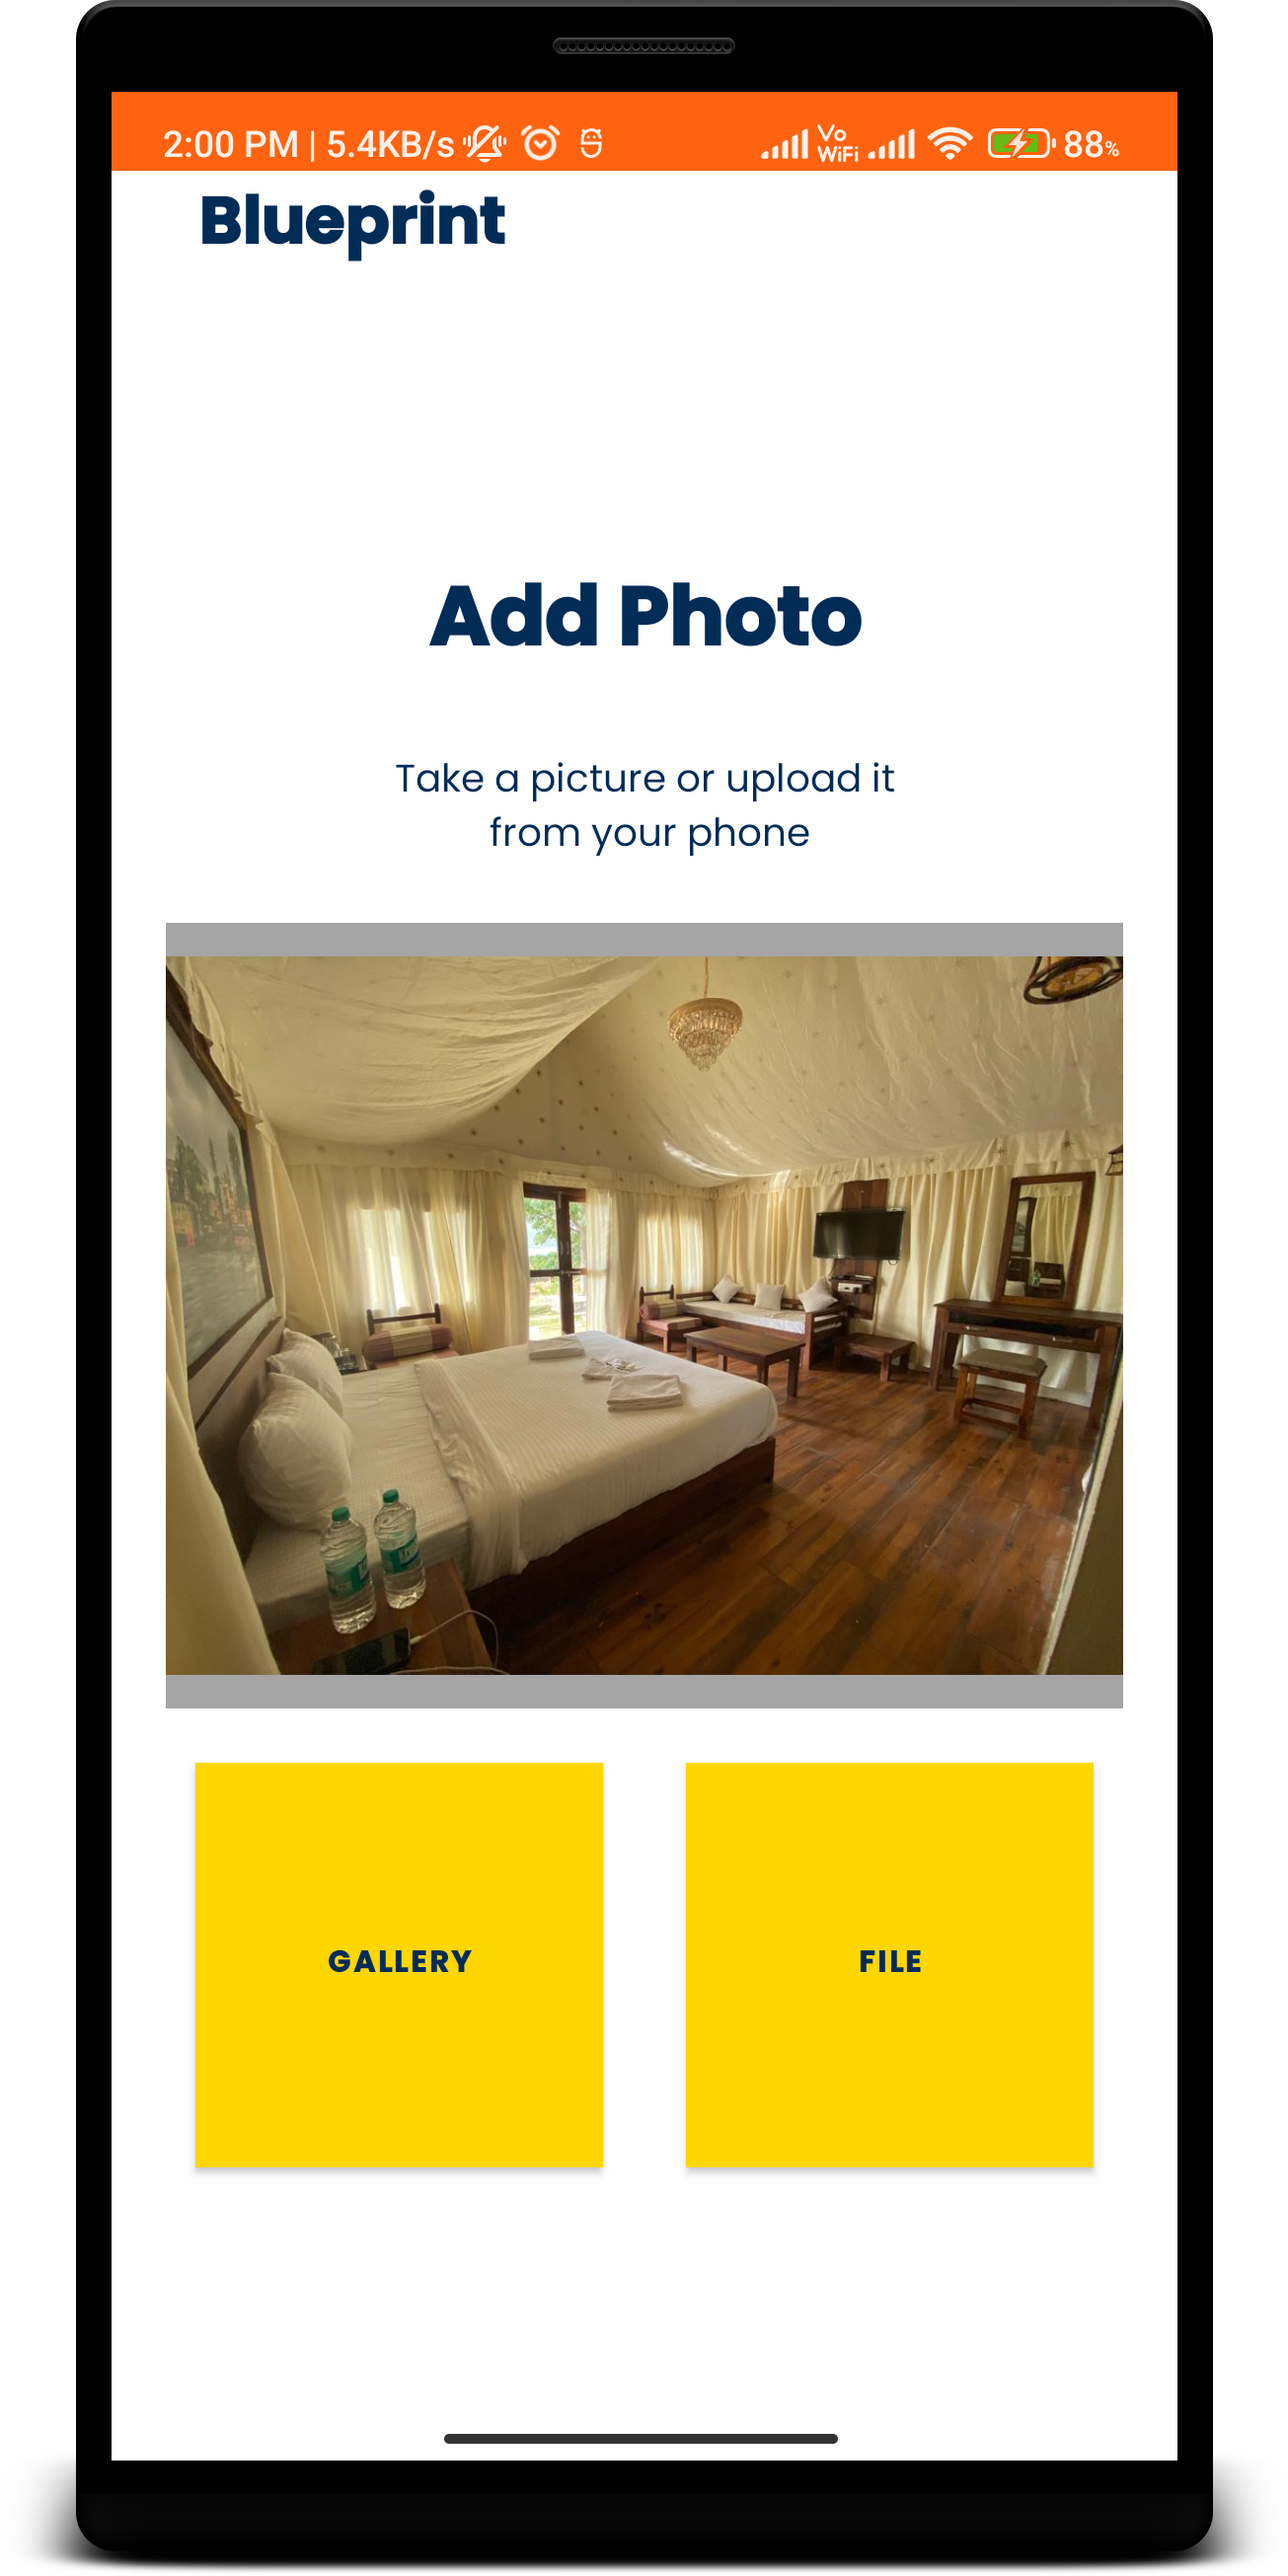
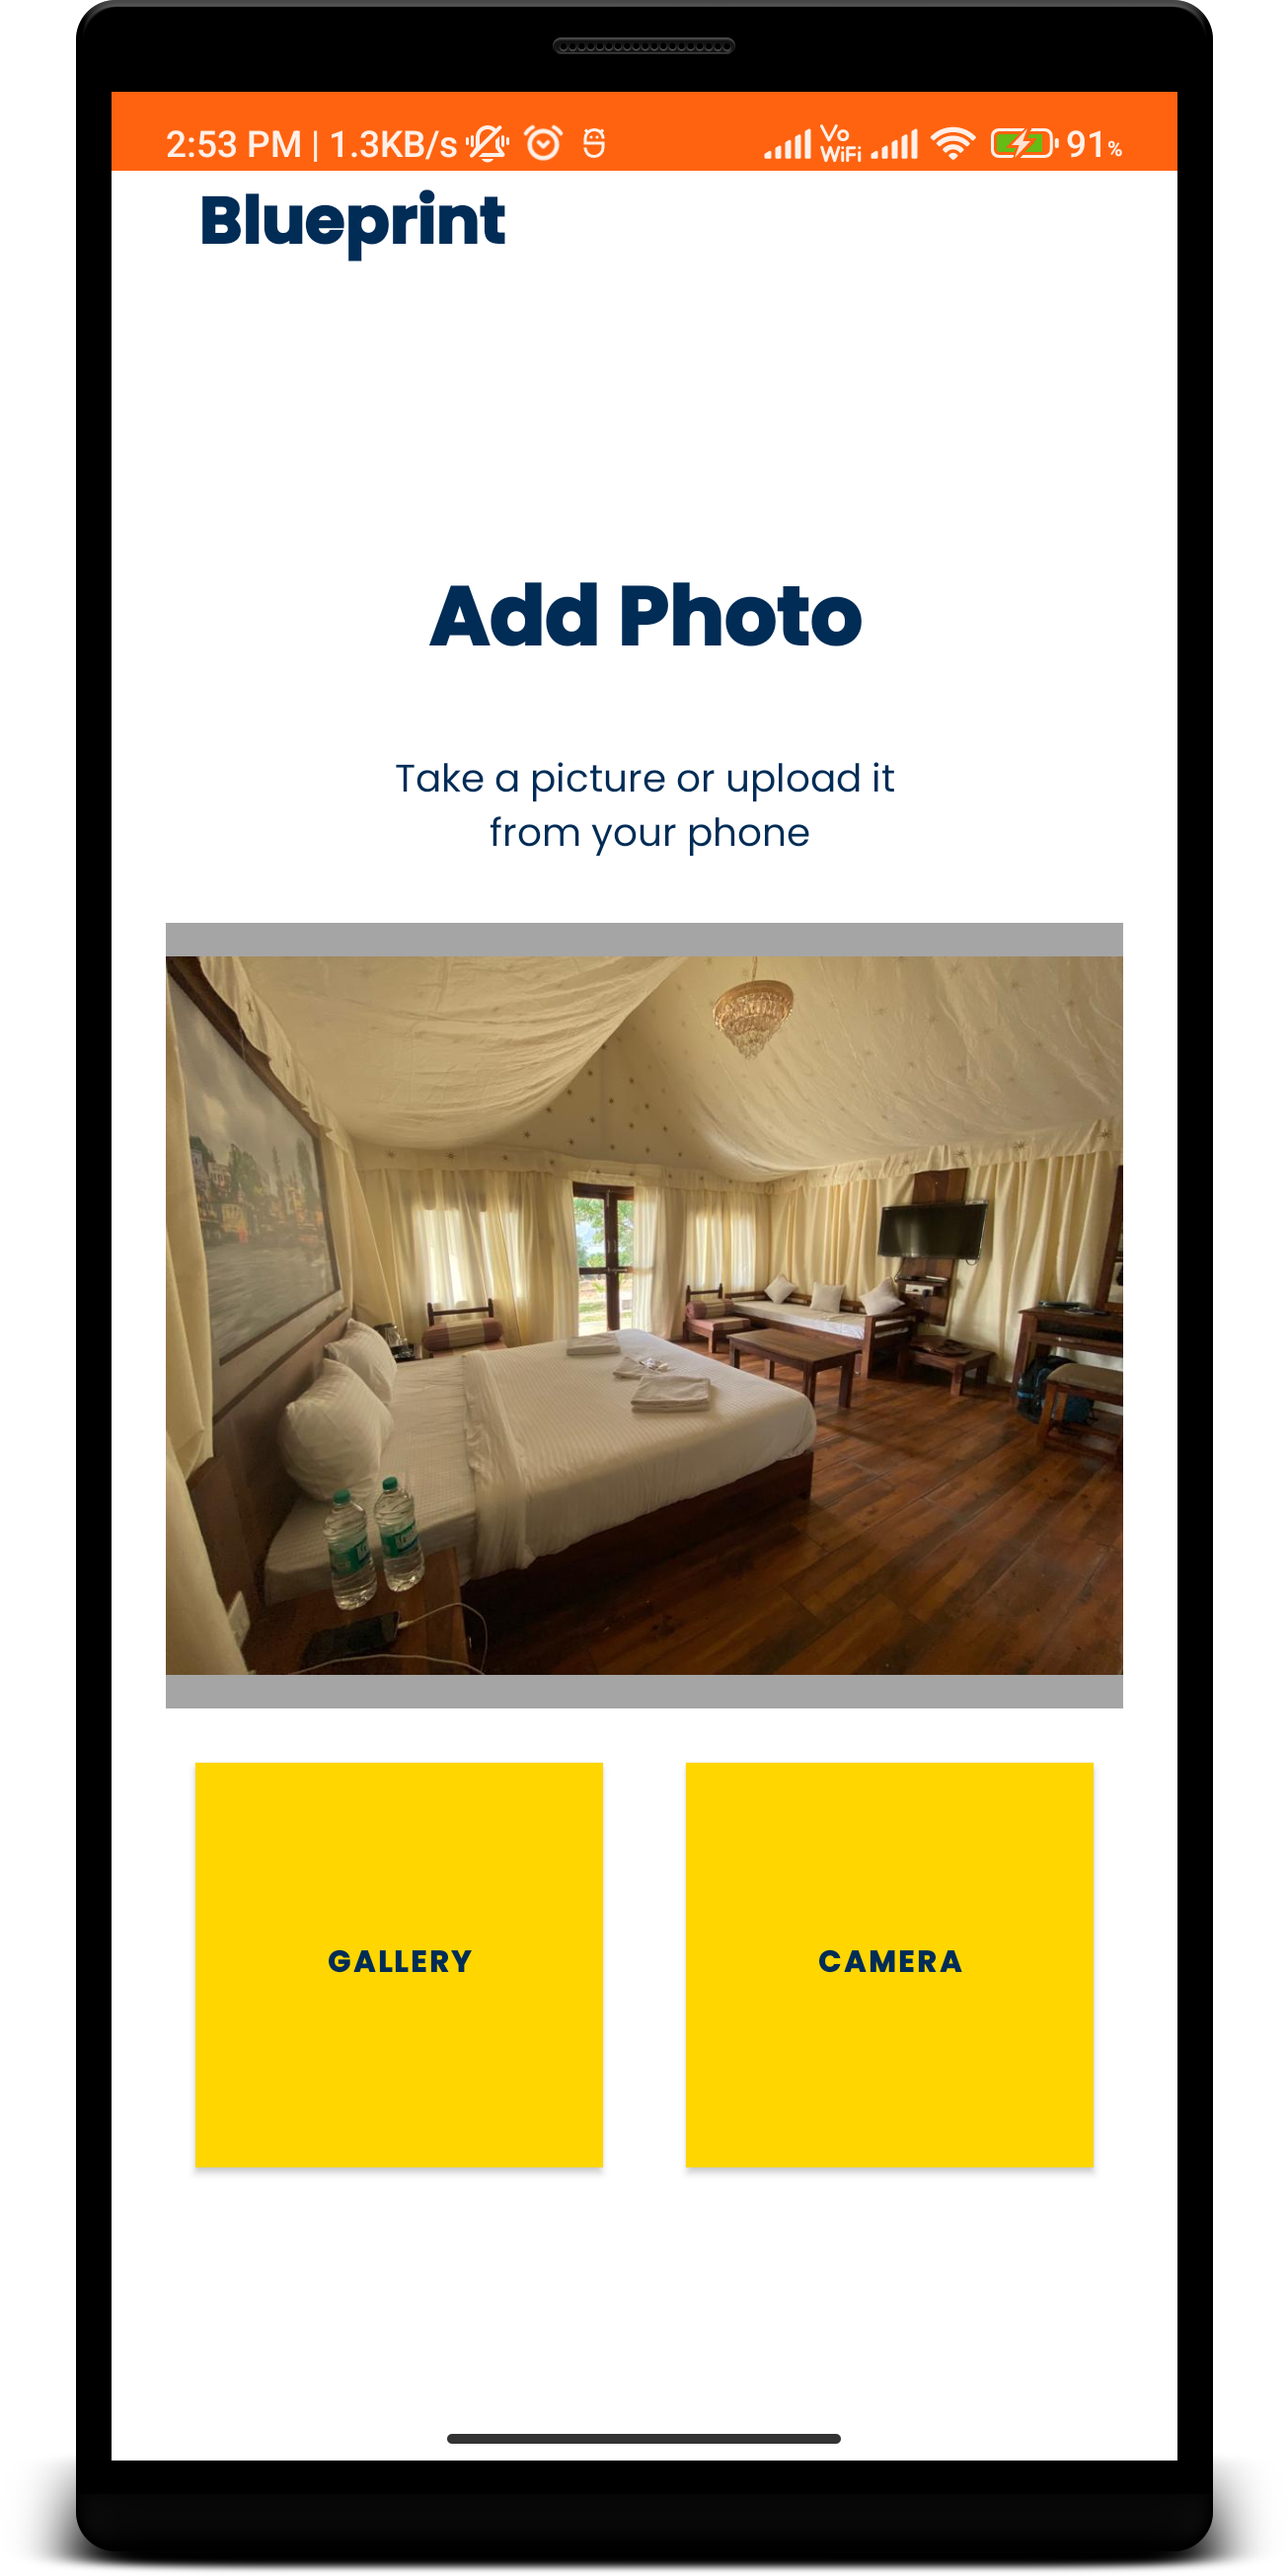
Fixed Colors bug, Updated file selection

diff --git a/media-android/src/main/java/com/arch/mediaandroid/picker/MediaPickerControllerImpl.kt b/media-android/src/main/java/com/arch/mediaandroid/picker/MediaPickerControllerImpl.kt
@@ -60,8 +60,8 @@ internal class MediaPickerControllerImpl(
         }
 
         val currentFragment: Fragment? = fragmentManager.findFragmentByTag(pickerFragmentTag)
-        val imagePickerFragment: ImagePickerFragment = if (currentFragment != null) {
-            currentFragment as ImagePickerFragment
+        val imagePickerFragment: ImagePickerFragment = if (currentFragment != null && currentFragment is ImagePickerFragment) {
+            currentFragment
         } else {
             ImagePickerFragment.newInstance(maxWidth, maxHeight).also {
                 fragmentManager
@@ -89,8 +89,8 @@ internal class MediaPickerControllerImpl(
         permissionsController.requestPermission(Permission.GALLERY)
 
         val currentFragment: Fragment? = fragmentManager.findFragmentByTag(pickerFragmentTag)
-        val pickerFragment: MediaPickerFragment = if (currentFragment != null) {
-            currentFragment as MediaPickerFragment
+        val pickerFragment: MediaPickerFragment = if (currentFragment != null && currentFragment is MediaPickerFragment) {
+            currentFragment
         } else {
             MediaPickerFragment().apply {
                 fragmentManager
@@ -113,8 +113,8 @@ internal class MediaPickerControllerImpl(
         permissionsController.requestPermission(Permission.STORAGE)
 
         val currentFragment: Fragment? = fragmentManager.findFragmentByTag(filePickerFragmentTag)
-        val pickerFragment: FilePickerFragment = if (currentFragment != null) {
-            currentFragment as FilePickerFragment
+        val pickerFragment: FilePickerFragment = if (currentFragment != null && currentFragment is FilePickerFragment) {
+            currentFragment
         } else {
             FilePickerFragment().apply {
                 fragmentManager

diff --git a/wiki/docs/modules/media-selection.md b/wiki/docs/modules/media-selection.md
@@ -11,7 +11,7 @@ This page outlines the usage of library for providing Media selection & presenti
 
 ## Features
 
-- **AndroidMediaPickerController** - Controller used to access media files via camera or gallery.
+- **AndroidMediaPickerController** - Controller used to access media files via camera or gallery or file explorer.
 
 
 
@@ -28,6 +28,7 @@ The `AndroidMediaPickerController` is constructor injected in the ViewModel usin
     permissionHandler: IAndroidPermissionsController,
     logger: AppLogger) : BaseViewModel(exceptionHandler, permissionHandler, logger) {
     
+    //Select file from Camera
     fun onSelectPhotoPressed() {
         viewModelScope.launch {
             try {
@@ -37,6 +38,35 @@ The `AndroidMediaPickerController` is constructor injected in the ViewModel usin
                 // cancel capture
             } catch(error: Throwable) {
                 // denied permission or file read error
+            }
+        }
+    }
+   
+    //Select file from Gallery
+    fun onSelectPhotoPressedFromGallery() {
+        viewModelScope.launch {
+            try {
+                val bitmap = mediaController.pickImage(MediaControllerSource.GALLERY)
+                // captured photo in bitmap
+            } catch(_: CanceledException) {
+                // cancel capture
+            } catch(error: Throwable) {
+                // denied permission or file read error
+            }
+        }
+    }
+
+    //Selecting file from explorer
+    fun selectFile() {
+        viewModelScope.launch {
+            try {
+                val file = androidMediaPickerController.pickFiles()
+                // get file path & name
+                _textState.value = file.name
+            } catch (canceled: CanceledException) {
+                // error
+            } catch (exc: Exception) {
+               // error
             }
         }
     }
